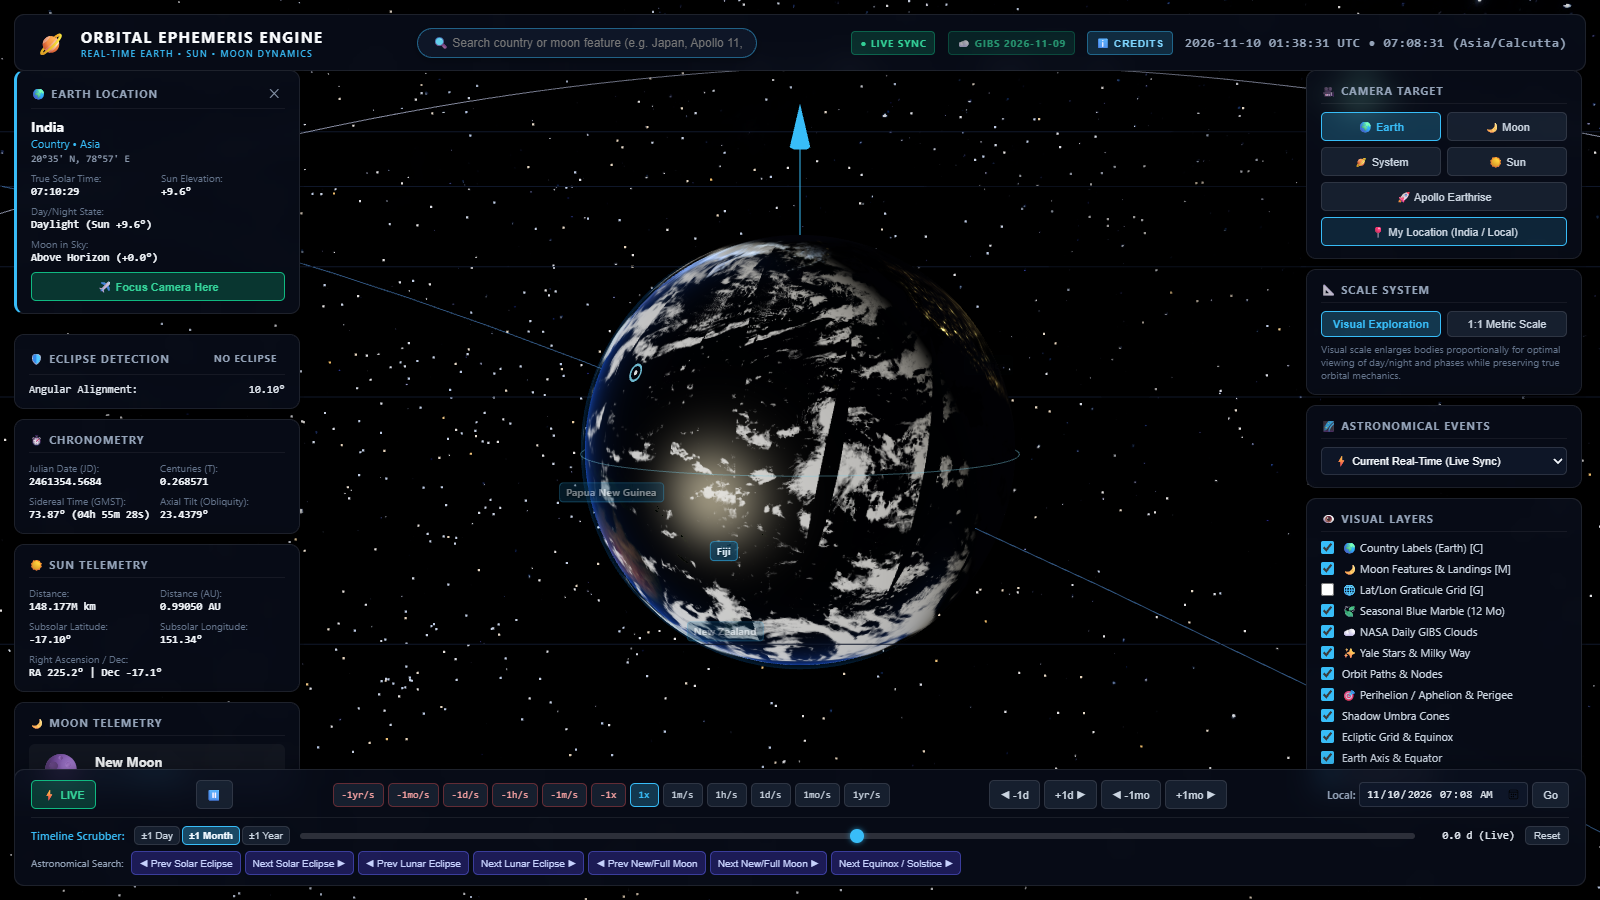
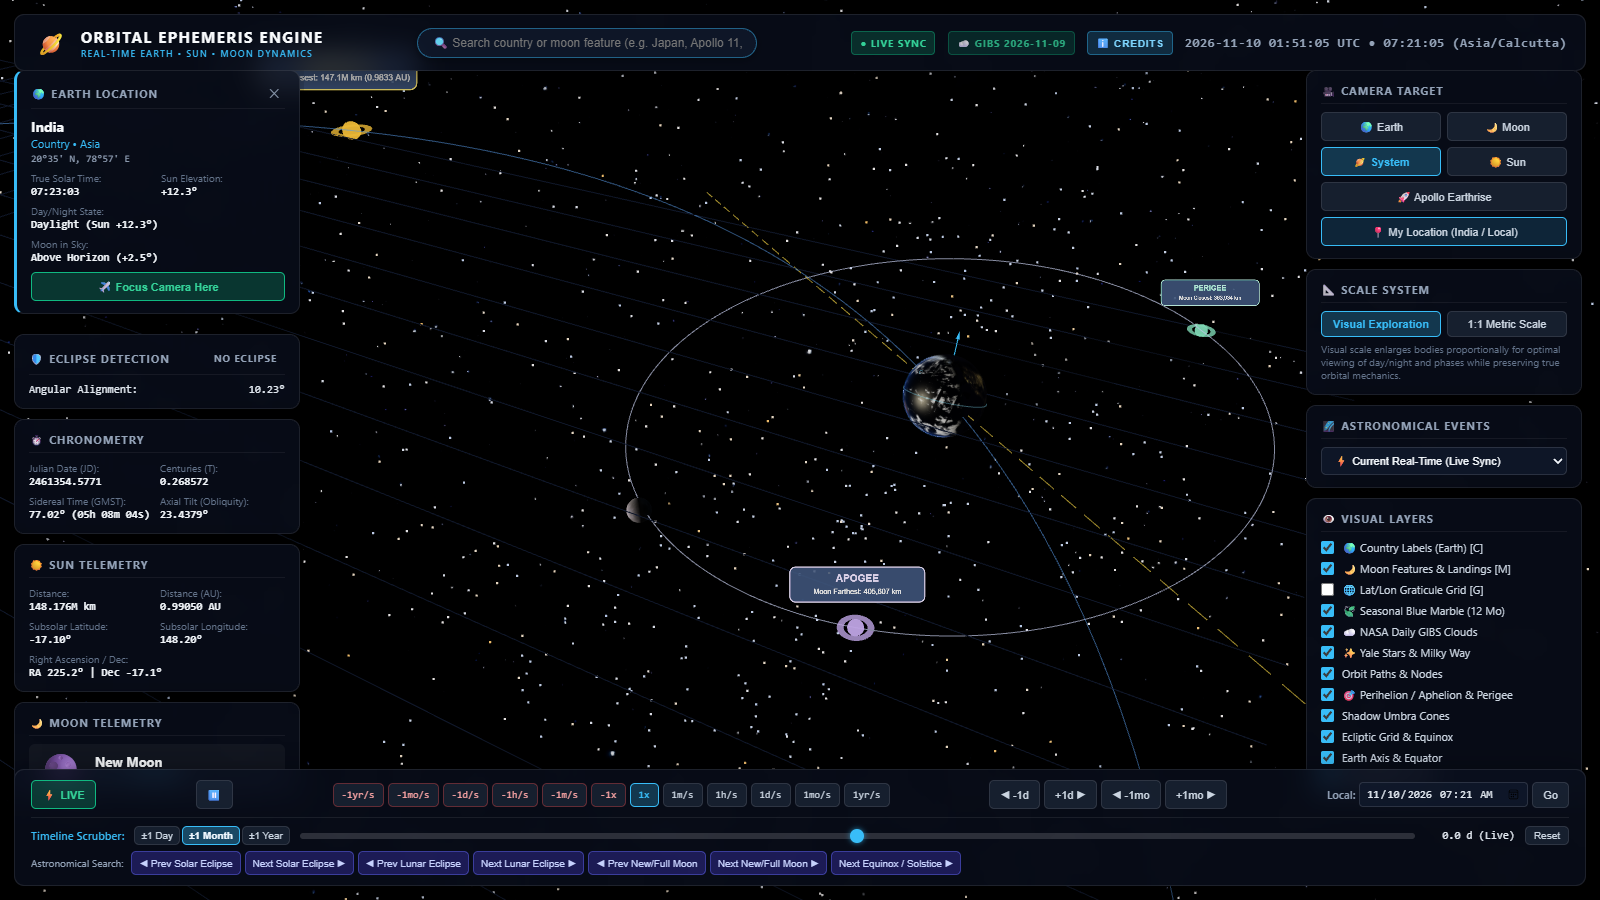
fix(orbits): refine apsides marker depth test, dynamic telemetry, and browser verification views

diff --git a/src/scene.js b/src/scene.js
@@ -375,10 +375,10 @@ export class SolarSystemScene {
   }
 
   createApsidesMarkers() {
-    this.perihelionMarker = this.createApsisMarker(0xf59e0b, 0.28, 'PERIHELION', 'Earth Closest to Sun (~147.1M km)');
-    this.aphelionMarker = this.createApsisMarker(0x38bdf8, 0.28, 'APHELION', 'Earth Farthest from Sun (~152.1M km)');
-    this.perigeeMarker = this.createApsisMarker(0x34d399, 0.16, 'PERIGEE', 'Moon Closest to Earth (~363k km)');
-    this.apogeeMarker = this.createApsisMarker(0xa78bfa, 0.16, 'APOGEE', 'Moon Farthest from Earth (~405k km)');
+    this.perihelionMarker = this.createApsisMarker(0xf59e0b, 0.35, 'PERIHELION', 'Earth Closest to Sun (~147.1M km)', { w: 6.2, h: 2.07 }, 2.0);
+    this.aphelionMarker = this.createApsisMarker(0x38bdf8, 0.35, 'APHELION', 'Earth Farthest from Sun (~152.1M km)', { w: 6.2, h: 2.07 }, 2.0);
+    this.perigeeMarker = this.createApsisMarker(0x34d399, 0.16, 'PERIGEE', 'Moon Closest to Earth (~363k km)', { w: 2.5, h: 0.85 }, 0.9);
+    this.apogeeMarker = this.createApsisMarker(0xa78bfa, 0.16, 'APOGEE', 'Moon Farthest from Earth (~405k km)', { w: 2.5, h: 0.85 }, 0.9);
 
     this.scene.add(this.perihelionMarker);
     this.scene.add(this.aphelionMarker);
@@ -389,37 +389,39 @@ export class SolarSystemScene {
     this.lastApogeeRel = new THREE.Vector3();
   }
 
-  createApsisMarker(colorHex, radius, title, subtitle) {
+  createApsisMarker(colorHex, radius, title, subtitle, spriteScale = { w: 3.2, h: 1.07 }, yOffset = 1.2) {
     const group = new THREE.Group();
 
     // Central glowing sphere
     const sphere = new THREE.Mesh(
       new THREE.SphereGeometry(radius, 16, 16),
-      new THREE.MeshBasicMaterial({ color: colorHex, depthTest: false, transparent: true, opacity: 0.95 })
+      new THREE.MeshBasicMaterial({ color: colorHex, depthTest: true, depthWrite: false, transparent: true, opacity: 0.95 })
     );
     group.add(sphere);
 
     // Flat ring in ecliptic plane
     const ring = new THREE.Mesh(
       new THREE.RingGeometry(radius * 1.4, radius * 2.2, 32),
-      new THREE.MeshBasicMaterial({ color: colorHex, side: THREE.DoubleSide, depthTest: false, transparent: true, opacity: 0.8 })
+      new THREE.MeshBasicMaterial({ color: colorHex, side: THREE.DoubleSide, depthTest: true, depthWrite: false, transparent: true, opacity: 0.8 })
     );
     ring.rotation.x = Math.PI / 2;
     group.add(ring);
 
     // Billboard Text Sprite
     if (typeof document !== 'undefined') {
-      const sprite = this.createApsisLabelSprite(title, subtitle, colorHex);
-      sprite.position.y = radius + 1.2;
+      const sprite = this.createApsisLabelSprite(title, subtitle, colorHex, spriteScale);
+      sprite.position.y = radius + yOffset;
       group.add(sprite);
       group.userData.sprite = sprite;
     }
 
     group.userData.baseRadius = radius;
+    group.userData.title = title;
+    group.userData.colorHex = colorHex;
     return group;
   }
 
-  createApsisLabelSprite(title, subtitle, colorHex) {
+  createApsisLabelSprite(title, subtitle, colorHex, spriteScale = { w: 3.2, h: 1.07 }) {
     const canvas = document.createElement('canvas');
     canvas.width = 384;
     canvas.height = 128;
@@ -459,11 +461,51 @@ export class SolarSystemScene {
     const spriteMat = new THREE.SpriteMaterial({
       map: texture,
       transparent: true,
-      depthTest: false
+      depthTest: true,
+      depthWrite: false
     });
     const sprite = new THREE.Sprite(spriteMat);
-    sprite.scale.set(3.2, 1.07, 1);
+    sprite.scale.set(spriteScale.w, spriteScale.h, 1);
+    sprite.renderOrder = 999;
     return sprite;
+  }
+
+  updateApsisSubtitle(markerGroup, title, subtitle, colorHex) {
+    if (typeof document === 'undefined') return;
+    if (!markerGroup || !markerGroup.userData || !markerGroup.userData.sprite) return;
+    const sprite = markerGroup.userData.sprite;
+    if (!sprite.material || !sprite.material.map || !sprite.material.map.image) return;
+    const canvas = sprite.material.map.image;
+    const ctx = canvas.getContext('2d');
+    if (!ctx) return;
+    ctx.clearRect(0, 0, canvas.width, canvas.height);
+
+    const colorHexStr = '#' + colorHex.toString(16).padStart(6, '0');
+    const r = 16, w = 376, h = 96, x = 4, y = 16;
+    ctx.fillStyle = 'rgba(15, 23, 42, 0.88)';
+    ctx.strokeStyle = colorHexStr;
+    ctx.lineWidth = 3;
+    ctx.beginPath();
+    ctx.moveTo(x + r, y);
+    ctx.arcTo(x + w, y, x + w, y + h, r);
+    ctx.arcTo(x + w, y + h, x, y + h, r);
+    ctx.arcTo(x, y + h, x, y, r);
+    ctx.arcTo(x, y, x + w, y, r);
+    ctx.closePath();
+    ctx.fill();
+    ctx.stroke();
+
+    ctx.fillStyle = colorHexStr;
+    ctx.font = 'bold 28px sans-serif';
+    ctx.textAlign = 'center';
+    ctx.fillText(title, canvas.width / 2, y + 40);
+
+    ctx.fillStyle = '#e2e8f0';
+    ctx.font = '20px sans-serif';
+    ctx.textAlign = 'center';
+    ctx.fillText(subtitle, canvas.width / 2, y + 74);
+
+    sprite.material.map.needsUpdate = true;
   }
 
   /**
@@ -528,11 +570,15 @@ export class SolarSystemScene {
       this.perihelionMarker.position.set(perihelionX, perihelionY, perihelionZ);
       const mScale = isVisual ? 1.0 : 200.0;
       this.perihelionMarker.scale.set(mScale, mScale, mScale);
+      const pKm = (minEarthDist * ASTRONOMICAL_CONSTANTS.AU_KM / 1e6).toFixed(1);
+      this.updateApsisSubtitle(this.perihelionMarker, 'PERIHELION', `Earth Closest: ${pKm}M km (${minEarthDist.toFixed(4)} AU)`, 0xf59e0b);
     }
     if (this.aphelionMarker) {
       this.aphelionMarker.position.set(aphelionX, aphelionY, aphelionZ);
       const mScale = isVisual ? 1.0 : 200.0;
       this.aphelionMarker.scale.set(mScale, mScale, mScale);
+      const aKm = (maxEarthDist * ASTRONOMICAL_CONSTANTS.AU_KM / 1e6).toFixed(1);
+      this.updateApsisSubtitle(this.aphelionMarker, 'APHELION', `Earth Farthest: ${aKm}M km (${maxEarthDist.toFixed(4)} AU)`, 0x38bdf8);
     }
 
     // 2. SAMPLE MOON GEOCENTRIC ORBIT PATH (~27.32 days centered on current epoch)
@@ -591,10 +637,12 @@ export class SolarSystemScene {
     if (this.perigeeMarker) {
       const mScale = isVisual ? 1.0 : 2.5;
       this.perigeeMarker.scale.set(mScale, mScale, mScale);
+      this.updateApsisSubtitle(this.perigeeMarker, 'PERIGEE', `Moon Closest: ${Math.round(minMoonDist).toLocaleString()} km`, 0x34d399);
     }
     if (this.apogeeMarker) {
       const mScale = isVisual ? 1.0 : 2.5;
       this.apogeeMarker.scale.set(mScale, mScale, mScale);
+      this.updateApsisSubtitle(this.apogeeMarker, 'APOGEE', `Moon Farthest: ${Math.round(maxMoonDist).toLocaleString()} km`, 0xa78bfa);
     }
   }
 

diff --git a/tests/test_elliptical_orbits.js b/tests/test_elliptical_orbits.js
@@ -136,7 +136,14 @@ const aphPos = scene.aphelionMarker.position;
 const aphDist = aphPos.length();
 assert(Math.abs(aphDist - maxSunDist) < 0.05, `Aphelion marker sits at max distance ${maxSunDist.toFixed(3)} (got ${aphDist.toFixed(3)})`);
 
-console.log('  ✓ PASS: Perihelion and Aphelion markers sit accurately at orbit extrema');
+const earthPos = scene.earthGroup.position;
+const perigeeDistToEarth = scene.perigeeMarker.position.distanceTo(earthPos);
+assert(Math.abs(perigeeDistToEarth - minMoonDist) < 0.05, `Perigee marker sits at min distance to Earth ${minMoonDist.toFixed(3)} (got ${perigeeDistToEarth.toFixed(3)})`);
+
+const apogeeDistToEarth = scene.apogeeMarker.position.distanceTo(earthPos);
+assert(Math.abs(apogeeDistToEarth - maxMoonDist) < 0.05, `Apogee marker sits at max distance to Earth ${maxMoonDist.toFixed(3)} (got ${apogeeDistToEarth.toFixed(3)})`);
+
+console.log('  ✓ PASS: Perihelion, Aphelion, Perigee, and Apogee markers sit accurately at orbit extrema');
 
 // Test 5: Visibility Toggles
 console.log('\nTest 5: Orbit and Apsides Visibility Toggles');
@@ -145,17 +152,26 @@ scene.update(state, 0);
 assert(!scene.earthOrbitLine.visible, 'earthOrbitLine is hidden when showOrbits is false');
 assert(!scene.moonOrbitLine.visible, 'moonOrbitLine is hidden when showOrbits is false');
 assert(!scene.perihelionMarker.visible, 'perihelionMarker is hidden when showOrbits is false');
+assert(!scene.aphelionMarker.visible, 'aphelionMarker is hidden when showOrbits is false');
+assert(!scene.perigeeMarker.visible, 'perigeeMarker is hidden when showOrbits is false');
+assert(!scene.apogeeMarker.visible, 'apogeeMarker is hidden when showOrbits is false');
 
 scene.showOrbits = true;
 scene.showApsides = false;
 scene.update(state, 0);
 assert(scene.earthOrbitLine.visible, 'earthOrbitLine is visible');
 assert(!scene.perihelionMarker.visible, 'perihelionMarker is hidden when showApsides is false');
+assert(!scene.aphelionMarker.visible, 'aphelionMarker is hidden when showApsides is false');
+assert(!scene.perigeeMarker.visible, 'perigeeMarker is hidden when showApsides is false');
+assert(!scene.apogeeMarker.visible, 'apogeeMarker is hidden when showApsides is false');
 
 scene.showApsides = true;
 scene.update(state, 0);
 assert(scene.perihelionMarker.visible, 'perihelionMarker is visible when both are true');
-console.log('  ✓ PASS: Visibility toggles work as expected');
+assert(scene.aphelionMarker.visible, 'aphelionMarker is visible when both are true');
+assert(scene.perigeeMarker.visible, 'perigeeMarker is visible when both are true');
+assert(scene.apogeeMarker.visible, 'apogeeMarker is visible when both are true');
+console.log('  ✓ PASS: Visibility toggles work as expected for all orbits and apsides');
 
 // Test 6: 1:1 Metric Scale Mode Switch
 console.log('\nTest 6: 1:1 Metric True Scale Mode');
@@ -165,8 +181,27 @@ scene.update(state, 0);
 const trueEarthAttr = scene.earthOrbitLine.geometry.attributes.position;
 const trueMinDist = Math.sqrt(trueEarthAttr.getX(0)**2 + trueEarthAttr.getY(0)**2 + trueEarthAttr.getZ(0)**2);
 // In true scale, distance in units = km / 10,000 -> ~14,700 to 15,200 units
-assert(trueMinDist > 14000 && trueMinDist < 16000, `True scale orbit size is in 10,000 km units (got ${trueMinDist.toFixed(1)})`);
-console.log('  ✓ PASS: True scale mode scales trajectories to physical kilometers');
+assert(trueMinDist > 14000 && trueMinDist < 16000, `True scale Earth orbit size is in 10,000 km units (got ${trueMinDist.toFixed(1)})`);
+
+const trueMoonAttr = scene.moonOrbitLine.geometry.attributes.position;
+const trueMoonDist0 = Math.sqrt(trueMoonAttr.getX(0)**2 + trueMoonAttr.getY(0)**2 + trueMoonAttr.getZ(0)**2);
+assert(trueMoonDist0 > 35 && trueMoonDist0 < 42, `True scale Moon orbit size is in 10,000 km units (got ${trueMoonDist0.toFixed(1)})`);
+
+const truePerigeeDist = scene.perigeeMarker.position.distanceTo(scene.earthGroup.position);
+assert(truePerigeeDist > 35 && truePerigeeDist < 38, `True scale Perigee distance to Earth matches physical distance (got ${truePerigeeDist.toFixed(1)})`);
+
+console.log('  ✓ PASS: True scale mode scales both Earth and Moon trajectories to physical kilometers');
+
+// Test 7: Apsides Material Depth Test & Depth Write Configurations
+console.log('\nTest 7: Apsides Material Depth Configuration');
+const sphereMat = scene.perihelionMarker.children[0].material;
+assert(sphereMat.depthTest === true, 'Apsis sphere material has depthTest enabled');
+assert(sphereMat.depthWrite === false, 'Apsis sphere material has depthWrite disabled');
+
+const ringMat = scene.perihelionMarker.children[1].material;
+assert(ringMat.depthTest === true, 'Apsis ring material has depthTest enabled');
+assert(ringMat.depthWrite === false, 'Apsis ring material has depthWrite disabled');
+console.log('  ✓ PASS: Apsides materials use correct depthTest=true and depthWrite=false');
 
 console.log('\n===========================================');
 console.log('ALL ELLIPTICAL ORBIT TESTS PASSED SUCCESSFULLY!');

diff --git a/scripts/verify_elliptical_orbits_browser.js b/scripts/verify_elliptical_orbits_browser.js
@@ -134,9 +134,15 @@ async function runVerification() {
     console.log(`  - Aphelion distance: ${orbitInfo.aphelionDist.toFixed(3)} units`);
     console.log(`  - Perihelion/Aphelion Difference: ${(orbitInfo.aphelionDist - orbitInfo.perihelionDist).toFixed(3)} units`);
 
-    // 1. Click Sun Camera Target button to focus on Sun and see the Earth orbital ellipse
+    // 1. Focus on Sun and elevate camera to frame entire Earth Keplerian elliptical orbit
     await page.evaluate(() => {
       document.getElementById('camSunBtn').click();
+      const sim = window.__sim;
+      if (sim && sim.cameraController) {
+        sim.cameraController.camera.position.set(0, 52, 60);
+        sim.cameraController.controls.target.set(0, 0, 0);
+        sim.cameraController.controls.update();
+      }
     });
     await new Promise(r => setTimeout(r, 2000));
     const shotHeliocentric = path.join(SCREENSHOT_DIR, 'heliocentric_earth_orbit_elliptical.png');
@@ -152,14 +158,21 @@ async function runVerification() {
     await page.screenshot({ path: shotSystem });
     console.log(`  ✓ Saved system orbit screenshot: ${shotSystem}`);
 
-    // 3. Click Earth View button to capture Moon's inclined perturbed elliptical orbit
+    // 3. Elevate angle to clearly showcase Moon's 5.15° inclined perturbed ellipse around Earth
     await page.evaluate(() => {
-      document.getElementById('camEarthBtn').click();
+      const sim = window.__sim;
+      if (sim && sim.cameraController) {
+        sim.cameraController.setFocus('system', false);
+        const earthPos = sim.sceneManager.earthGroup.position;
+        sim.cameraController.camera.position.set(earthPos.x + 10, earthPos.y + 14, earthPos.z + 18);
+        sim.cameraController.controls.target.copy(earthPos);
+        sim.cameraController.controls.update();
+      }
     });
     await new Promise(r => setTimeout(r, 2000));
     const shotEarth = path.join(SCREENSHOT_DIR, 'earth_moon_elliptical_orbit.png');
     await page.screenshot({ path: shotEarth });
-    console.log(`  ✓ Saved Earth-Moon orbit screenshot: ${shotEarth}`);
+    console.log(`  ✓ Saved Earth-Moon inclined orbit screenshot: ${shotEarth}`);
 
     // 4. Test toggle apsides in UI
     const toggleApsidesChecked = await page.evaluate(() => {
